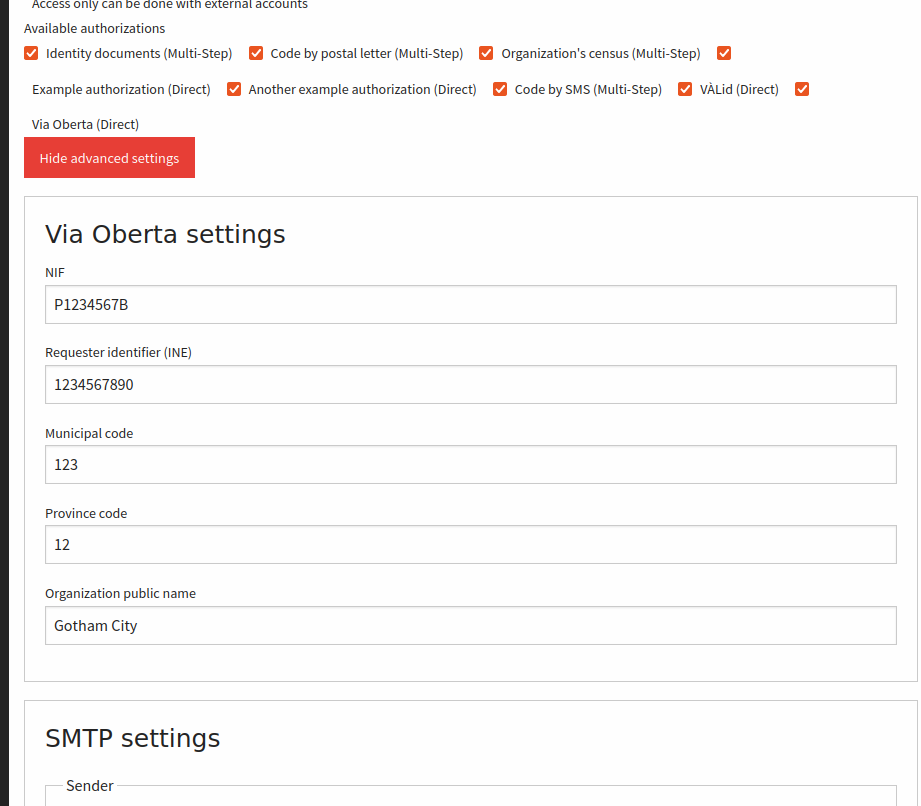
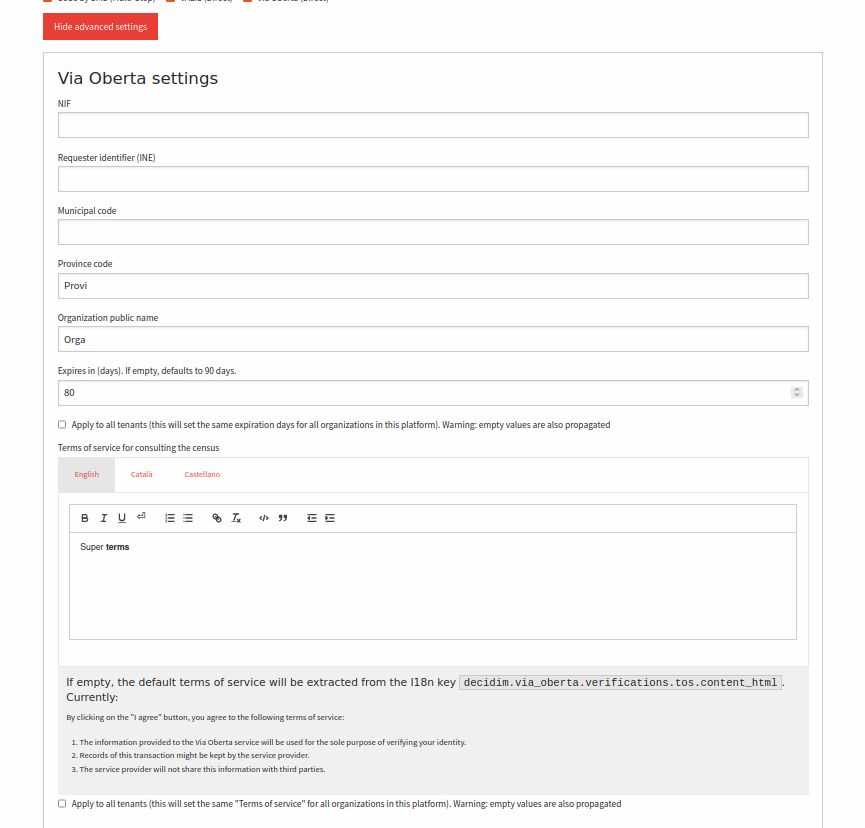
Change terms and conditions default text (#19)
* change terms text

* update image

* fix merge

* remove routes

* update tos link

* lint

diff --git a/lib/decidim/trusted_ids/engine.rb b/lib/decidim/trusted_ids/engine.rb
@@ -9,12 +9,6 @@ module Decidim
     class Engine < ::Rails::Engine
       isolate_namespace Decidim::TrustedIds
 
-      routes do
-        # Add engine routes here
-        # resources :trusted_ids
-        # root to: "trusted_ids#index"
-      end
-
       config.to_prepare do
         # Non-controller overrides here
         Decidim::Organization.include(Decidim::TrustedIds::OrganizationOverride)
